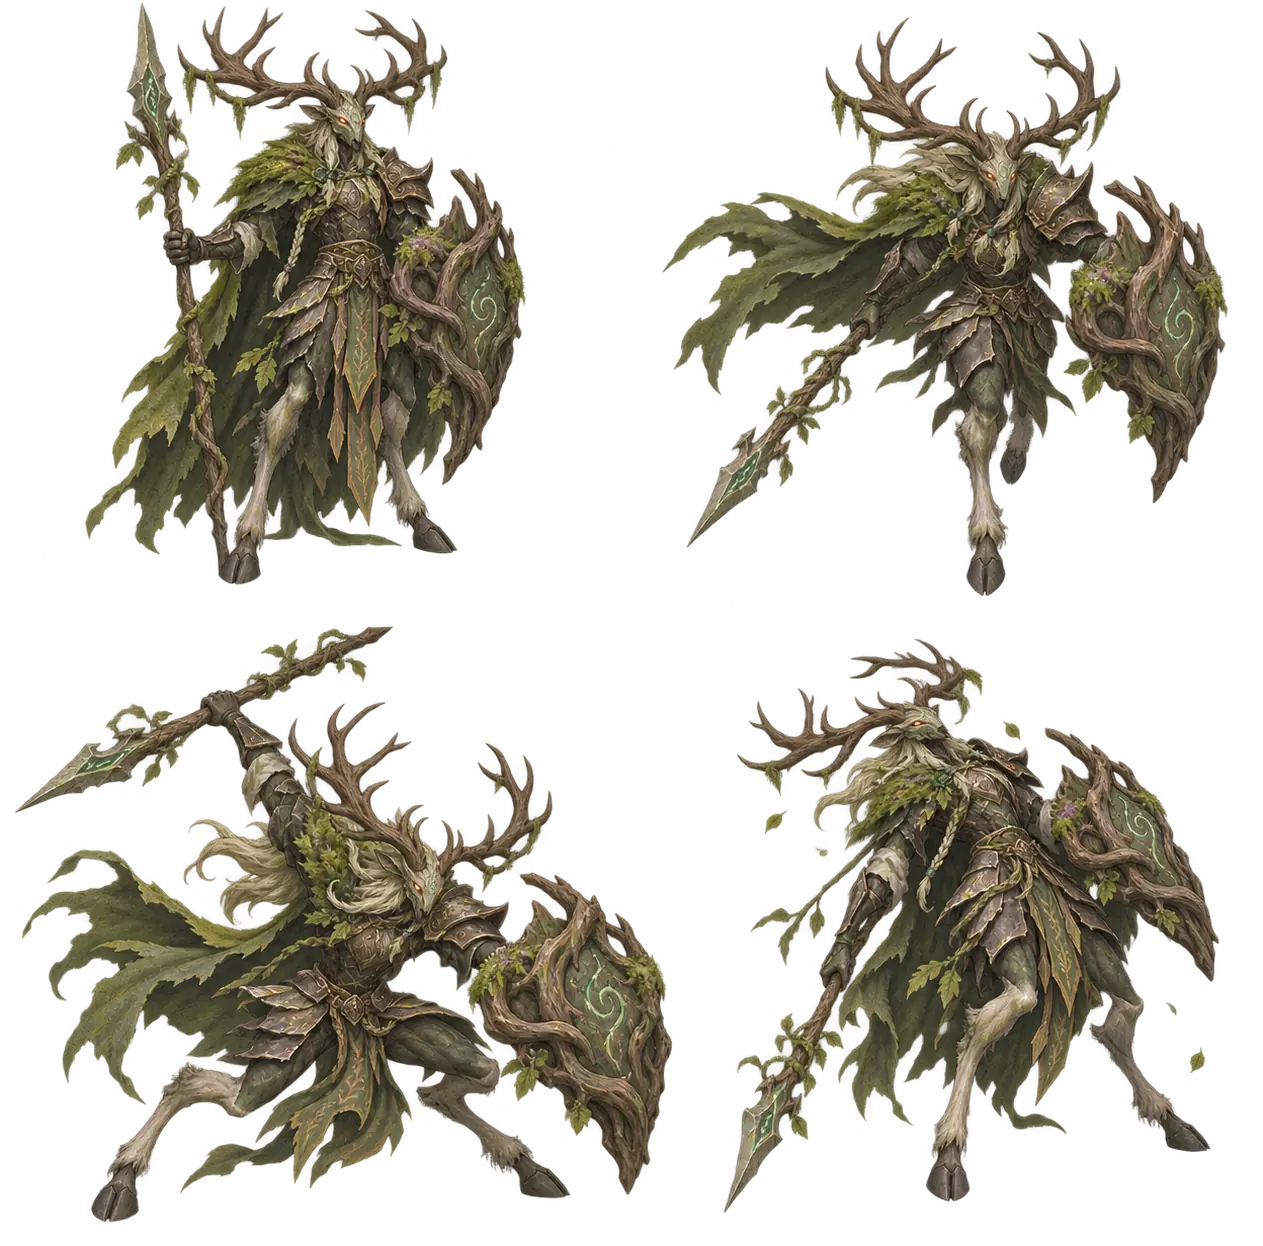
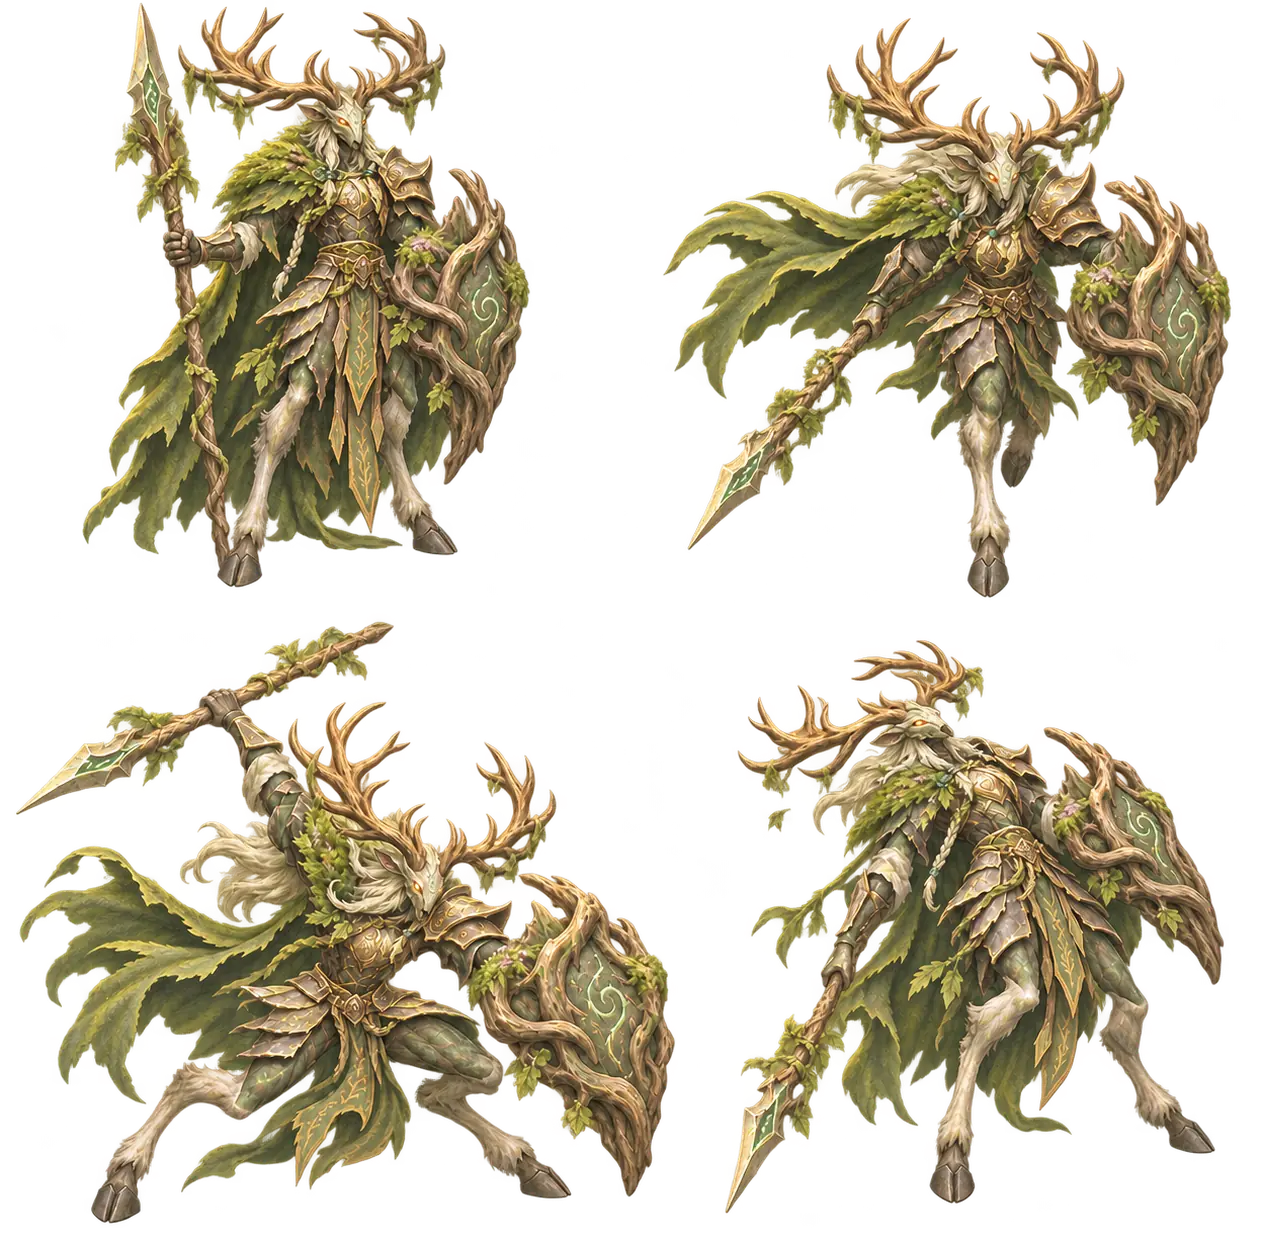
fix(ForestGuard): brighten sentinel and render 224px boss action frames

diff --git a/ForestGuard/game.js b/ForestGuard/game.js
@@ -875,18 +875,21 @@
     const applyFourPoseSheet=(type,sheet)=>{
       if(!sheet)return;
       const cw=sheet.naturalWidth/2,ch=sheet.naturalHeight/2;
+      // 224px preserves the illustrated antlers/roots in the 216px cinematic;
+      // compact fallback monsters still keep their existing 128px textures.
+      const paintedFrameSize=224;
       const poses={idle:[0,0,0,0],run:[0,1,0,1],attack:[0,1,2,2,3,0],
         hurt:[0,3,3,1,0,0],death:[0,3,3,3,3,3],victory:[0,1,0,1]};
       for(const [motion,sequence] of Object.entries(poses))for(const [frame,pose] of sequence.entries()){
         const key='motion-'+type+'-'+motion+'-'+frame;
         if(scene.textures.exists(key))scene.textures.remove(key);
-        createCanvasTexture(scene,key,128,128,c=>{
-          const fit=Math.min(122/cw,122/ch),w=cw*fit,h=ch*fit;
+        createCanvasTexture(scene,key,paintedFrameSize,paintedFrameSize,c=>{
+          const fit=Math.min((paintedFrameSize-8)/cw,(paintedFrameSize-8)/ch),w=cw*fit,h=ch*fit;
           const push=motion==='attack'&&frame>=2&&frame<=3?2:0;
           c.imageSmoothingEnabled=true;c.imageSmoothingQuality='high';
           c.drawImage(sheet,(pose%2)*cw,Math.floor(pose/2)*ch,cw,ch,
-            (128-w)/2,(128-h)/2-push,w,h);
-          V.cleanEnemyFrame(c,128,128);
+            (paintedFrameSize-w)/2,(paintedFrameSize-h)/2-push,w,h);
+          V.cleanEnemyFrame(c,paintedFrameSize,paintedFrameSize);
         });
       }
     };
@@ -2380,8 +2383,10 @@
       chapterBossPaintingQA(){
         if(!battle||battle.ended||![3,7,11].includes(battle.stage.id))return null;
         const sheet=chapterBossBitmaps[battle.stage.id];
+        const frame=battle.textures.get('motion-boss-attack-0').getSourceImage();
         return {stage:battle.stage.id,loaded:!!sheet,
           dimensions:sheet?[sheet.naturalWidth,sheet.naturalHeight]:null,
+          frameSize:[frame.width,frame.height],
           attackFrames:Array.from({length:6},(_,i)=>battle.textures.exists('motion-boss-attack-'+i)),
           hurtFrames:Array.from({length:6},(_,i)=>battle.textures.exists('motion-boss-hurt-'+i))};
       },
@@ -2399,11 +2404,12 @@
         if(!battle||battle.ended||battle.stage.id!==0)return null;
         const loaded=!!forestSentinelBitmap;
         const frames=Array.from({length:6},(_,i)=>battle.textures.exists('motion-guardian-attack-'+i));
+        const frame=battle.textures.get('motion-guardian-attack-0').getSourceImage();
         battle.spawnEnemy('guardian');
         const e=battle.enemies[battle.enemies.length-1];
         e.x=210;e.y=245;e.spd=0;e.spr.setPosition(210,245);
         battle.syncBattleOverlay();
-        return {loaded,frames,portrait:document.getElementById('boss-portrait').className,
+        return {loaded,frames,frameSize:[frame.width,frame.height],portrait:document.getElementById('boss-portrait').className,
           background:getComputedStyle(document.getElementById('boss-portrait')).backgroundImage,
           title:document.getElementById('boss-title').textContent};
       },

diff --git a/ForestGuard/CHAPTER_ONE_V52.md b/ForestGuard/CHAPTER_ONE_V52.md
@@ -15,9 +15,9 @@
 
 ## 아트와 표시
 
-- `art/chapter1-forest-sentinel-v52.webp`: 1263×1246 원본에서 WebP 변환. 제1장 1-1~1-4의 중간보스에만 사용. 다른 장의 기존 파수꾼 아트에는 영향 없음.
+- `art/chapter1-forest-sentinel-v52.webp`: 1263×1246 원본에서 WebP 변환. 390px 캡처 역검수에서 파수꾼의 어두운 명암을 발견해 노랑·이끼색 윤곽광을 보정. 제1장 1-1~1-4의 중간보스에만 사용. 다른 장의 기존 파수꾼 아트에는 영향 없음.
 - `art/chapter1-root-giant-v52.webp`: 1266×1242 원본에서 WebP 변환. 1-4에만 사용.
-- 둘 다 좌상=대기, 우상=전진, 좌하=강공격, 우하=피격/후속 자세. 캔버스 프레임 생성 시 원본 종횡비 유지 및 잔여 배경 픽셀 제거.
+- 둘 다 좌상=대기, 우상=전진, 좌하=강공격, 우하=피격/후속 자세. 컷신의 216px 확대에서 흐려지지 않도록 원화 프레임을 128px에서 224px로 변경. 원본 종횡비 유지 및 잔여 배경 픽셀 제거. 이 변경은 이 4포즈 보스·파수꾼 프레임에만 적용.
 - 보스 체력 HUD 초상도 시트 좌상단을 사용, 원화 외곽에 CSS 테두리·중첩 프레임 추가하지 않음.
 - 무기 공격 효과는 `boss-root-spear` 56×154 원본 Canvas 텍스처 하나를 재사용. 매 틱 새 그림을 만들지 않고 필요한 순간에만 표시.
 
